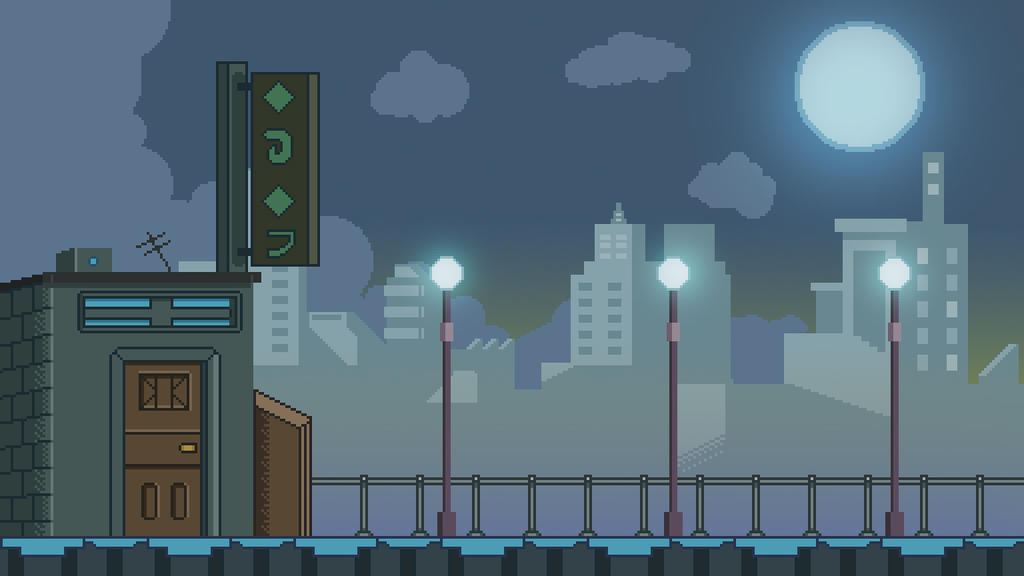
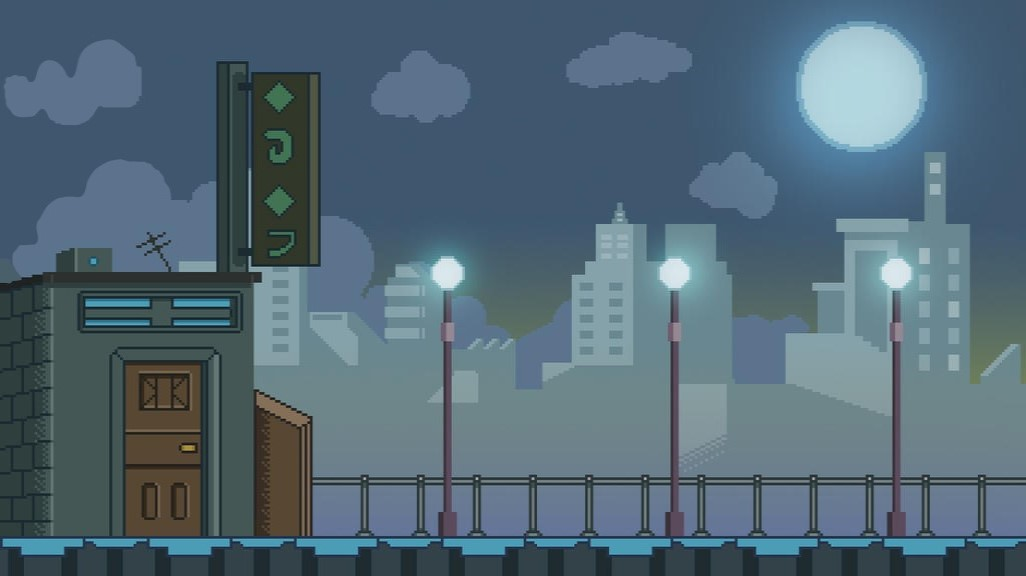
ajustes background

Changed region(s): [[0.0, 0.0, 0.1875, 0.5], [0.2812, 0.75, 0.3125, 0.8438]]

diff --git a/dino_runner/components/game.py b/dino_runner/components/game.py
@@ -16,10 +16,11 @@ class Game:
         self.playing = False
         self.running = False
         self.score = 0
+        self.time_to_blit = None
         self.death_count = 0
         self.game_speed = 20
         self.x_pos_bg = 0
-        self.y_pos_bg = 380
+        self.y_pos_bg = 0
         self.x_pos_bg_image = SCREEN_WIDTH
         self.y_pos_bg_image = SCREEN_HEIGHT - 210
         self.player = Dinosaur()
@@ -69,7 +70,6 @@ class Game:
     def draw(self):
         self.clock.tick(FPS)
         self.screen.fill((255,255,255))
-        self.screen.blit(BG_FUNDO_DIA, (0,0))
         self.draw_background()
         self.draw_bg_image()
         self.player.draw(self.screen)
@@ -80,20 +80,29 @@ class Game:
         pygame.display.update()
         pygame.display.flip()
     
+
     def draw_background(self):
-        image_width = BG.get_width()
-        self.screen.blit(BG, (self.x_pos_bg, self.y_pos_bg))
-        self.screen.blit(BG, (image_width + self.x_pos_bg, self.y_pos_bg)) 
+        image_width = BG_FUNDO_DIA.get_width()
+        self.screen.blit(BG_FUNDO_DIA, (self.x_pos_bg, self.y_pos_bg))
+        self.screen.blit(BG_FUNDO_DIA, (image_width + self.x_pos_bg, self.y_pos_bg)) 
         if self.x_pos_bg <= -image_width:
-            self.screen.blit(BG, (image_width + self.x_pos_bg, self.y_pos_bg))
+            self.screen.blit(BG_FUNDO_DIA, (image_width + self.x_pos_bg, self.y_pos_bg))
             self.x_pos_bg = 0
-        self.x_pos_bg -= self.game_speed
+        self.x_pos_bg -= 2
 
     def draw_bg_image(self):
-        if self.score >= 500 and self.score <= 1000:
-            self.screen.fill((0,0,0))
-            self.screen.blit(BG_FUNDO_NOITE, (0,0))
-            self.draw_background()
+        if self.score % 500 == 0:
+            self.time_to_blit = pygame.time.get_ticks() + 5000
+        if self.time_to_blit:
+            image_width = BG_FUNDO_NOITE.get_width()
+            self.screen.blit(BG_FUNDO_NOITE, (self.x_pos_bg, self.y_pos_bg))
+            self.screen.blit(BG_FUNDO_NOITE, (image_width + self.x_pos_bg, self.y_pos_bg)) 
+            if self.x_pos_bg <= -image_width:
+                self.screen.blit(BG_FUNDO_NOITE, (image_width + self.x_pos_bg, self.y_pos_bg))
+                self.x_pos_bg = 0
+            self.x_pos_bg -= 2
+            if pygame.time.get_ticks() >= self.time_to_blit:
+                self.time_to_blit = None
 
     def draw_score(self):
         draw_message_component(

diff --git a/dino_runner/utils/constants.py b/dino_runner/utils/constants.py
@@ -79,10 +79,10 @@ HAMMER = pygame.image.load(os.path.join(IMG_DIR, 'Other/hammer.png'))
 BG = pygame.image.load(os.path.join(IMG_DIR, 'Other/Track.png'))
 
 BG_FUNDO_NOITE = pygame.image.load(os.path.join(IMG_DIR, 'Other/cidade_fundo.jpg'))
-BG_FUNDO_NOITE = pygame.transform.scale(BG_FUNDO_NOITE, (SCREEN_WIDTH, SCREEN_HEIGHT-210))
+BG_FUNDO_NOITE = pygame.transform.scale(BG_FUNDO_NOITE, (SCREEN_WIDTH, SCREEN_HEIGHT))
 
 BG_FUNDO_DIA = pygame.image.load(os.path.join(IMG_DIR, 'Other/cidade_fundo_dia.jpg'))
-BG_FUNDO_DIA = pygame.transform.scale(BG_FUNDO_DIA, (SCREEN_WIDTH, SCREEN_HEIGHT-210))
+BG_FUNDO_DIA = pygame.transform.scale(BG_FUNDO_DIA, (SCREEN_WIDTH, SCREEN_HEIGHT))
 
 HEART = pygame.image.load(os.path.join(IMG_DIR, 'Other/SmallHeart.png'))
 

diff --git a/dino_runner/components/dinosaur.py b/dino_runner/components/dinosaur.py
@@ -5,8 +5,8 @@ DUCK_IMG = { DEFAULT_TYPE: DUCKING_HAMMER, SHIELD_TYPE: DUCKING_SHIELD}
 JUMP_IMG = { DEFAULT_TYPE: JUMPING_HAMMER, SHIELD_TYPE: JUMPING_SHIELD}
 RUN_IMG = { DEFAULT_TYPE: RUNNING_HAMMER, SHIELD_TYPE: RUNNING_SHIELD}
 X_POS = 80
-Y_POS = 310
-Y_POS_DUCK = 340
+Y_POS = 470
+Y_POS_DUCK = 500
 JUMP_VEL = 8.5
 
 class Dinosaur(Sprite):

diff --git a/dino_runner/components/powerups/power_up.py b/dino_runner/components/powerups/power_up.py
@@ -8,7 +8,7 @@ class PowerUp(Sprite):
         self.type = type
         self.rect = self.image.get_rect()
         self.rect.x = SCREEN_WIDTH + random.randint(800, 1000)
-        self.rect.y = random.randint(125, 175)
+        self.rect.y = random.randint(325, 375)
         self.start_time = 0
         self.duration = random.randint(5, 10)
 

diff --git a/dino_runner/components/obstacles/bird.py b/dino_runner/components/obstacles/bird.py
@@ -5,7 +5,7 @@ from dino_runner.components.obstacles.obstacle import Obstacle
 class Bird(Obstacle):
     def __init__(self):
         super().__init__(BIRD, 0)
-        self.rect.y = 250
+        self.rect.y = 420
         self.step_index = 0
 
     def draw(self, screen):

diff --git a/dino_runner/components/obstacles/cactus.py b/dino_runner/components/obstacles/cactus.py
@@ -7,8 +7,8 @@ from dino_runner.components.obstacles.obstacle import Obstacle
 class Cactus(Obstacle):
 
     CACTUS = [
-        (LARGE_CACTUS, 300),
-        (SMALL_CACTUS, 325),
+        (LARGE_CACTUS, 470),
+        (SMALL_CACTUS, 495),
     ]
 
     def __init__(self):
